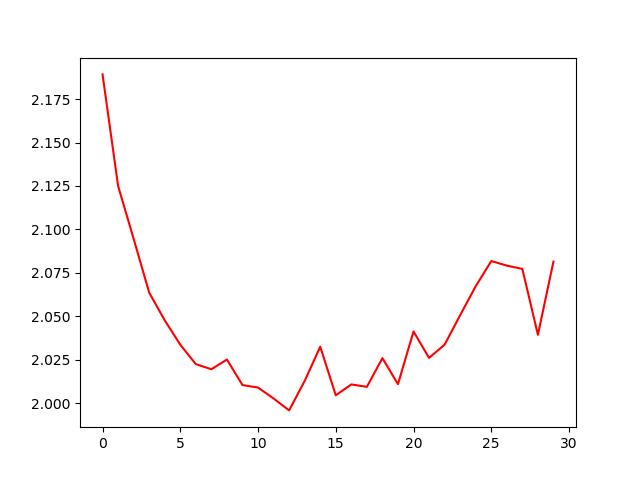
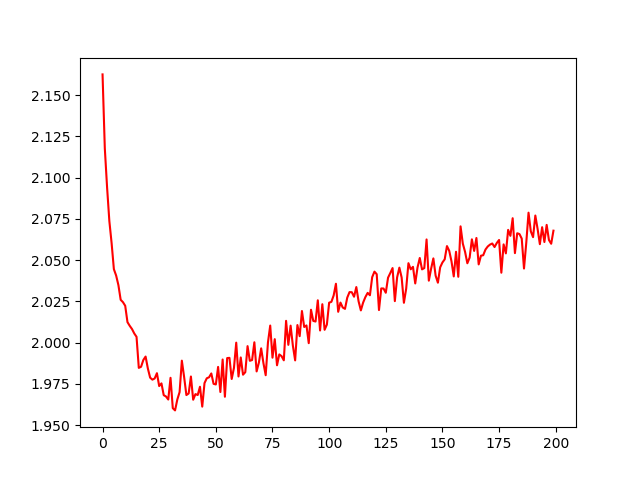
pytorch

diff --git a/pytorch/model.py b/pytorch/model.py
@@ -48,7 +48,7 @@ def train(model):
     devs_loss = []
     devs_accuracy = []
     num_of_training_examples = TRAIN.shape[0]
-    learning_rate = 0.00001
+    learning_rate = 0.00007
     lr_decay = 0.99
     # # test on validation set
     # validation_loss, validation_accuracy = test(model)
@@ -115,17 +115,14 @@ def train(model):
     plt.clf()
 
 my_model = nn.Sequential(
-    torch.nn.Linear(3072, 1024),
+    torch.nn.Linear(3072, 256),
     torch.nn.ReLU(),
-    torch.nn.Dropout(0.3),
-    torch.nn.Linear(1024, 1024),
-    torch.nn.ReLU(),
-    torch.nn.Dropout(0.3),
-    torch.nn.Linear(1024, 10)
+    torch.nn.Dropout(0.4),
+    torch.nn.Linear(256, 10)
 )
 
 loss_function = torch.nn.CrossEntropyLoss(reduction='sum')
-num_of_epochs = 30
+num_of_epochs = 200
 
 train(my_model)
 torch.save(my_model.state_dict(), 'model_file')
